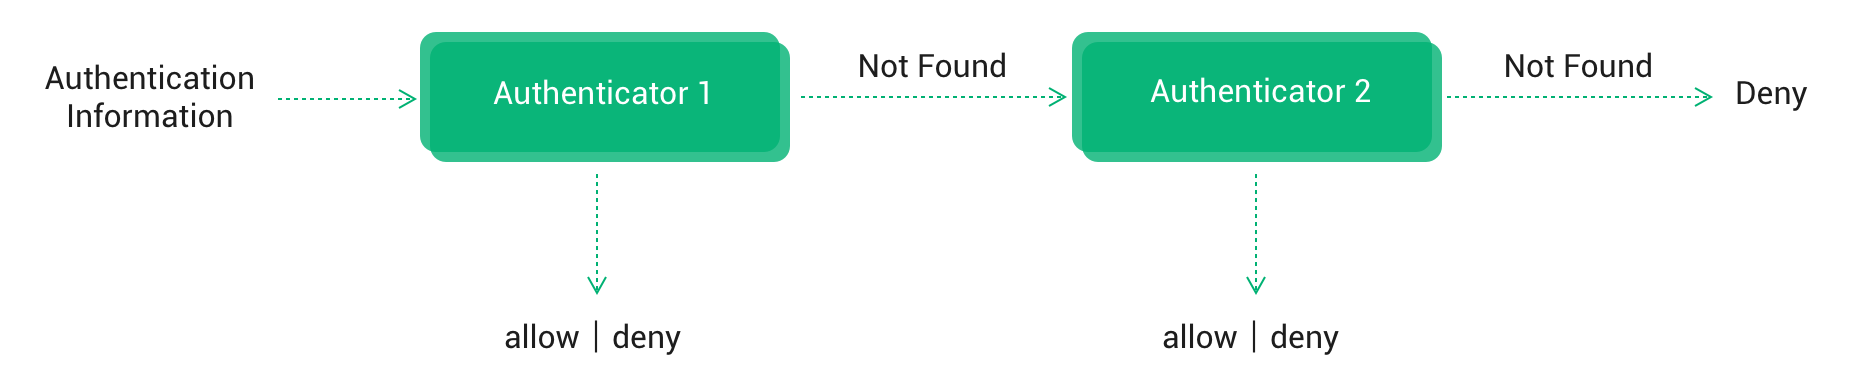
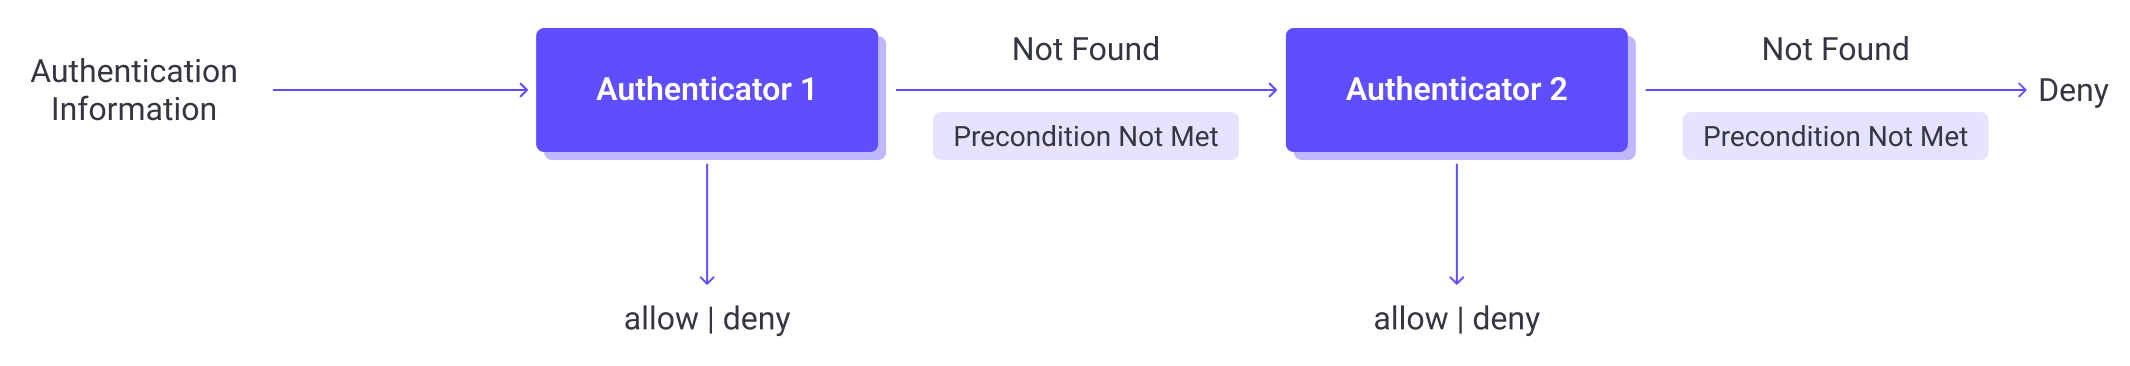
Edit and add translation

diff --git a/en_US/access-control/authn/authn.md b/en_US/access-control/authn/authn.md
@@ -72,46 +72,61 @@ EMQX supports below authentication methods (referred to as authenticator hereaft
 
 ## Authentication Chain
 
-EMQX allows the creation of authentication chain using multiple authenticators and follows the authenticator's position in the chain to perform the authentication. The authenticators for creating the authentication chain should be of different types.
+EMQX supports the creation of an authentication chain, which allows multiple authenticators to be evaluated in a defined sequence. Each authenticator in the chain must be of a different type (e.g., one HTTP, one LDAP, one built-in database).
 
 ::: tip
 
-Currently, EMQX only supports creating an authentication chain for MQTT clients. For gateways, it is recommended to use its own authenticator, and the authentication chain is also not supported. 
+Currently, EMQX only supports creating an authentication chain for MQTT clients. Gateways do not support authentication chains and should use a single authenticator instead.
 
 :::
 
-When the X.509 certificate authentication is applied, it will be executed before performing the authentication chain.
+When the X.509 certificate-based authentication is applied, it is always executed before performing the authentication chain.
 
-### Workflow
+### How the Authentication Chain Works
 
-With authentication chain configured, EMQX first tries to retrieve the matching authentication information from the first authenticator, if fails, it switches to the next authenticator to continue the process. 
+When an authentication chain is configured, EMQX processes authenticators in the order defined until a match is found or all options are exhausted.
 
-Taking the password-based authentication as an example, EMQX tries to retrieve the possible authentication information from the configured authenticators:
+Here’s how it works, using password-based authentication as an example:
 
-1. If authentication credentials exist, and:
-   - the authentication information matches (e.g. password is correct, JWT is valid), the client will be allowed to connect.
-   - the authentication information does not match, and the client will be denied to connect.
-2. When multiple authenticators are configured, EMQX will look for credentials in order. Once the match is successful it will allow the client to connect.
-   If no credentials are found in the current authenticator, it will:
-   - continue to retrieve the information from other authenticators.
-   - refuse the connection if this is already the last authenticator.
+1. **Evaluate Preconditions (if configured):**
+   If the authenticator has a [precondition](#authenticator-preconditions), EMQX first evaluates the expression based on client information (e.g., `listener`, `clientid`, `username`).
+   - If the expression evaluates to `true`, the authenticator is invoked.
+   - If not, the authenticator is skipped.
+2. **Execute the Authenticator:**
+   - If credentials are found and valid (e.g., the password is correct), the client is authenticated successfully and allowed to connect.
+   - If credentials are found but invalid, the client is denied access.
+   - If no credentials are found, EMQX moves to the next authenticator in the chain.
 
-::: tip 
-
-The current authenticator will also be skipped when the authenticator is in a disabled state or there are errors in the process of authentication, for example, the database is not available.
-
-:::
+3. **Skip on Error or Disabled:**
+   An authenticator will also be skipped if it is disabled, or if there is an internal error during execution, for example, if the database is unavailable.
+4. **Fallback Behavior:**
+   If all authenticators are skipped or none can authenticate the client, EMQX denies the connection by default.
 
 ![](./assets/authn-chain.png)
 
-### Preconditions
+### Authenticator Preconditions
 
-Starting from EMQX 5.9, a precondition can be added to each authenticator to determine whether the authenticator should be invoked.
+Starting from EMQX 5.9, you can assign a precondition to each authenticator to control whether it should be invoked for a given client.
 
-The precondition is a [Variform](../../configuration/configuration.md#variform-expressions) expression that can be used to check the client information. If the precondition is not met (does not evaluate to `true`), the authenticator will be skipped.
+A precondition is a [Variform expression](../../configuration/configuration.md#variform-expressions) that evaluates client metadata (such as `listener`, `username`, `clientid`, etc.). If the expression does not evaluate to `true`, the authenticator is skipped.
 
-This allows selective invocation of authenticators based on client information, helping avoid unnecessary out-of-band authentication requests.
-For example, to trigger the HTTP authenticator only for clients connected via `tcp:default`, and Postgre authenticators for those on `ssl:default`, you can use preconditions like `str_eq(listener, 'tcp:default')` or `str_eq(listener, 'ssl:default')`.
+This feature enables conditional logic in the authentication chain, allowing EMQX to invoke authenticators only when appropriate and avoid unnecessary requests to external systems.
+
+#### Precondition Examples
+
+To authenticate clients connected via different listeners using different authenticators:
+
+- HTTP authenticator for clients on `tcp:default`:
+
+  ```
+  str_eq(listener, 'tcp:default')
+  ```
+
+- PostgreSQL authenticator for clients on `ssl:default`:
+
+  ```
+  str_eq(listener, 'ssl:default')
+  ```
 
 ## Super User
 

diff --git a/zh_CN/access-control/authn/authn.md b/zh_CN/access-control/authn/authn.md
@@ -63,36 +63,56 @@ EMQX 中的 [PSK 认证](../../network/psk-authentication.md) 提供了一个更
 
 ## 认证链
 
-EMQX 允许创建多个认证器构成一条认证链，认证器将按照在链中的位置顺序执行，如果在当前认证器中未检索到身份凭证，将会切换至链上的下一个启用的认证器继续认证。
+EMQX 允许创建多个认证器构成一条认证链，认证器将按照在链中的位置顺序执行，如果在当前认证器中未检索到身份凭证，将会切换至链上的下一个启用的认证器继续认证。认证链中的每个认证器必须是不同类型的（例如，一个 HTTP，一个 LDAP，一个内置数据库）。
 
 ::: tip
 
-认证链中不允许出现多个相同类型的认证器。同时，只有 MQTT 协议支持认证链，网关仅支持使用单个认证器。
+当前，EMQX 仅支持为 MQTT 客户端创建认证链。网关不支持认证链，仅支持使用单个认证器。
 
 :::
 
-### 认证流程
+### 认证链的工作机制
 
-以密码认证为例，通常这会产生以下 2 种情况：
+当启用认证链后，EMQX 会按照配置的顺序依次执行认证器，直到认证成功或所有认证器都执行完毕。
 
-1. 当前认证器执行时检索到了匹配的认证信息，例如用户名一致：
-   - 密码完全匹配，则客户端认证通过，允许连接。
-   - 密码无法匹配，则客户端认证失败，拒绝连接。
-2. 当前认证器执行时没有检索到匹配的认证信息，例如数据源中没有查找到数据：
-   - 当前认证器之后还有认证器：忽略认证，交由下一认证器继续认证。
-   - 当前认证器已经是链中最后一个认证器：客户端认证失败，拒绝连接。
+以密码认证为例，其执行流程如下：
 
-::: tip
-
-请注意，某个认证器查找出错（如数据库错误）或未启用时，将继续执行下一个认证器。
-
-:::
+1. **评估前置条件（如已配置）：**
+    如果某个认证器配置了[前置条件](#认证器前置条件)，EMQX 会首先基于客户端信息（如 `listener`、`clientid`、`username` 等）评估该表达式。
+   - 若表达式计算结果为 `true`，则执行该认证器；
+   - 否则跳过此认证器。
+2. **执行认证器：**
+   - 如果找到了凭证且验证通过（如密码正确），则认证成功，允许客户端连接；
+   - 如果找到了凭证但验证失败，则拒绝连接；
+   - 如果未找到凭证，则继续尝试下一个认证器。
+3. **错误或禁用时跳过：**
+    如果认证器被禁用，或在执行过程中出现内部错误（如数据库不可用），该认证器也将被跳过。
+4. **回退行为：**
+    如果所有认证器都被跳过或均未能认证成功，EMQX 默认会拒绝客户端连接。
 
 ![EMQX 认证链](./assets/authn-chain.png)
 
-### 应用场景
+### 认证器前置条件
 
-用户可以创建多个认证器实现链式认证，某些场景下这是有益的，比如客户端数量多、连接速率很高的场景下，用户可能使用 Redis 作为链中的第一个认证器，与 HTTP Server 认证器搭配使用，借助 Redis 高性能优势提供缓存层以实现更高性能的认证能力。
+从 EMQX 5.9 开始，您可以为每个认证器配置一个前置条件，用于判断是否应触发该认证器来认证当前客户端。
+
+前置条件是一个 [Variform 表达式](../../configuration/configuration.md#variform-表达式)，可基于客户端信息（例如 `listener`, `username`, `clientid` 等）进行逻辑判断。如果表达式的计算结果不是 `true`，该认证器将被跳过。
+
+通过使用前置条件，您可以实现更灵活的认证逻辑，仅对符合特定条件的客户端调用对应的认证器，从而避免不必要的外部认证请求。
+
+#### 前置条件示例
+
+- 仅对通过 `tcp:default` 监听器连接的客户端启用 HTTP 认证器：
+
+  ```
+  str_eq(listener, 'tcp:default')
+  ```
+
+- 仅对通过 `ssl:default` 监听器连接的客户端启用 PostgreSQL 认证器：
+
+  ```
+  str_eq(listener, 'ssl:default')
+  ```
 
 ## 超级用户与权限
 